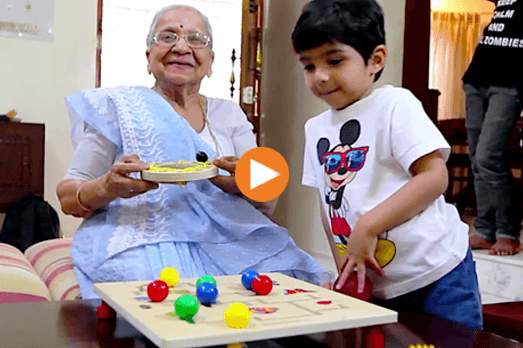
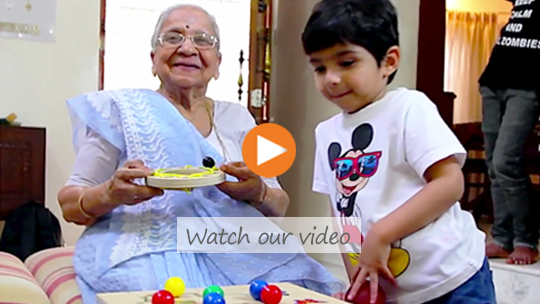
Home page new version changes

diff --git a/src/webapp/assets/css/by/homeNew.css b/src/webapp/assets/css/by/homeNew.css
@@ -1659,6 +1659,15 @@ background-image:-ms-linear-gradient(left, #fff 1%, yellow 50%,#fff 100%);
     padding-bottom: 30px;
     font-weight: bold;
 }
+.by_homeSection_wrap_title a
+{
+    text-decoration: underline;
+}
+.by_homeSection_wrap_title small
+{
+    font-size: 18px;
+    font-weight: normal;
+}
 .by_grayBg
 {
     background: #eee;
@@ -1688,8 +1697,8 @@ background-image:-ms-linear-gradient(left, #fff 1%, yellow 50%,#fff 100%);
 .by_homeSection_segoBig
 {
      font-family: Segoe_Print!important;
-     font-size: 26px;
-     line-height: 29px;
+     font-size: 20px;
+     line-height: 15px;
      padding-bottom: 16px;
 }
 .by_homeSection_segoOrange
@@ -1699,6 +1708,27 @@ background-image:-ms-linear-gradient(left, #fff 1%, yellow 50%,#fff 100%);
     line-height: 29px;
     color: #FF850F;
     font-weight: bold;
+}
+.by_homeSection_centuryArrow
+{
+    font-size: 23px;
+    font-family: century_gothic !important;
+    line-height: 22px; 
+}
+.by_homeSection_centuryArrow small
+{
+    font-size: 16px;
+}
+.by_homeSection_centuryArrow a:after
+{
+    content: '';
+    width: 0;
+    height: 0;
+    border-top: 8px solid transparent;
+    border-bottom: 8px solid transparent;
+    display: inline-block;
+    border-left: 16px solid #ccc;
+    margin-left: 5px;
 }
 .by_homeSection_link
 {
@@ -1713,6 +1743,10 @@ background-image:-ms-linear-gradient(left, #fff 1%, yellow 50%,#fff 100%);
     text-transform: uppercase;
     font-weight: bold;
 }
+.by_homeSection_link small
+{
+    font-size: 18px;
+}
 /*.by_homeSection_link a:after {
     content: '';
     width: 0;
@@ -1725,9 +1759,9 @@ background-image:-ms-linear-gradient(left, #fff 1%, yellow 50%,#fff 100%);
 }*/
 .by_homeSection_centuryBig
 {
-    font-size: 24px;
+    font-size: 22px;
     font-family: century_gothic !important;
-    line-height: 29px; 
+    line-height: 32px; 
     margin-top: 18px;
 }
 .by_sallulatesOne
@@ -1773,7 +1807,7 @@ background-image:-ms-linear-gradient(left, #fff 1%, yellow 50%,#fff 100%);
 }
 .by_homeSection_centuryBigDirectory
 {
-    font-size: 24px;
+    font-size: 23px;
     font-family: century_gothic !important;
     line-height: 37px; 
     width: 70%;
@@ -1901,6 +1935,11 @@ background-image:-ms-linear-gradient(left, #fff 1%, yellow 50%,#fff 100%);
     .by_homeHeaderBelow1, .by_homeHeaderBelow2, .by_homeHeaderBelow3
     {
         line-height: 35px;
+    }
+    .by_homeSection_centuryBig, .by_homeSection_centuryBigDirectory 
+    {
+        margin-left: auto;
+        margin-right: auto;
     }
 } 
 @media ( max-width: 430px) {

diff --git a/src/webapp/app/components/home/homeDirectory.html b/src/webapp/app/components/home/homeDirectory.html
@@ -3,7 +3,7 @@
         <div class="by_homeSection" style="padding-bottom:10px;">
             <div class="by_homeSectionInside" >
                <div class="by_homeSection_wrap_title">
-                Elder Care Services
+                Elder Care <a href="#!/directory/56406cd03e60f5b66f62df26/all">Services</a>
                 </div>
                 <!--<div class="by_homeDirectoryLeft">
                    <div class="by_homeDirectoryLeftThumb">
@@ -22,14 +22,16 @@
                 ... and more!
                 </div>-->
 
-                <div class="by_homeSection_centuryBigDirectory margin-bottom-40">
-                    We can find you a trusted <b>Nurse</b>, a <b>Physiotherapist</b>, <br/>
-                    a <b>Retirement community</b> - and more!
+                <div class="by_homeSection_centuryBigDirectory margin-bottom-40" style="max-width:678px;">
+                   We can recommend you a trusted <b>Nurse</b>, a <b>Physiotherapist</b>, 
+                    a <b>Retirement community</b> – and more!  
+
                 </div>
 
                 
-                <div class="by_homeSection_centuryBigDirectory">
-                    <a title="{{telNo}}" ng-if="$root.windowWidth < 721"> Call</a> <xyz ng-if="$root.windowWidth > 720"> <b>Call </xyz> {{telNo}}</b> for  <span>free</span> assistance, or <br/>browse our <a href="#!/directory/56406cd03e60f5b66f62df26/all" style="font-weight:500; text-transform:none;">directory</a> of senior care services
+                <div class="by_homeSection_centuryBigDirectory" style="max-width:558px;">
+                    <a title="{{telNo}}" href="tel:{{telNo}}" ng-if="$root.windowWidth < 721"> <div class="by_callToActionButton"><img src="assets/img/home/call.png?versionTimeStamp=1459503470417" alt="BeautifulYears Call"> Call 
+          </div></a> <xyz ng-if="$root.windowWidth > 720"> <b>Call </xyz> {{telNo}}</b> for  <span>free</span> assistance, or browse our <a href="#!/directory/56406cd03e60f5b66f62df26/all" style="font-weight:500; text-transform:none;">directory</a> of {{serviceCount}} senior care services
                 </div>
 
                 <div class="by_homeDirectoryRight" >

diff --git a/src/webapp/app/components/home/homeExpStore.html b/src/webapp/app/components/home/homeExpStore.html
@@ -9,24 +9,24 @@
     <div class="by_homeSection" style="padding-bottom:0px;">        
         <div class="by_homeSectionInside">
             <div class="by_homeSection_wrap_title">
-                Home Modifications for Aging at Home
+                <a href="#!/home-modification">Home Modifications</a><br/>
+                 <small>for senior living / "aging in place"</small>
             </div>
             <div class="by_homeSectionLeft divLeft">
-                <div class="by_homeSection_segoOrange margin-bottom-60">
+                <div class="by_homeSection_segoOrange margin-bottom-40">
                     First time in Bangalore!
                 </div>
-                <div class="by_homeSection_segoBig">
-                    Make your home
+                <div class="by_homeSection_centuryBig" style="max-width:390px;">
+                    Elder <b>falls prevention</b> and more: 
+                    make your home <b>Senior Friendly </b>
                 </div>
-                <div class="by_homeSection_link">
-                    <a href="#!/home-modification">Senior friendly</a>
-                </div>
-                <div class="by_homeSection_centuryBig">
-                    For safety, security and<br/> comfort of your parents
+                <div class="by_homeSection_centuryBig" style="max-width:390px;">
+                    Keep aging parents <b>safe</b>, <b>secure</b>,
+                     and <b>comfortable</b>
                 </div>
             </div>
             <div class="by_homeSectionLeft divRight">
-                <div style="border:8px solid #fff;">
+                <div style="border:2px solid #fff;">
                     <div class="by_expVideoShow" ng-click="showVideo();">
                         <img src="assets/img/home/home-seniorfriendly-videoframe.png?versionTimeStamp=%PROJECT_VERSION%" alt="BeautifulYears Video" width="100%"  />
                     </div>

diff --git a/src/webapp/app/components/home/homeShop.html b/src/webapp/app/components/home/homeShop.html
@@ -51,25 +51,27 @@
             </div>
             <div class="by_homeSectionLeft divRight">
                 <div class="by_homeSection_segoBig">
-                    Visit us in Bangalore
+                    Visit us 
                 </div>
                 <div class="by_homeSection_link">
-                    <a href="#!/experience-center">Experience store</a>
+                    <a href="#!/experience-center">Experience store</a> <small> in Bangalore</small>
+                </div>
+                <div class="by_homeSection_centuryArrow margin-top-20 ">
+                    <b>SEE</b> <a></a> <b>TRY</b> <a></a> <b>BUY</b> <small>or</small> <b>RENT</b>
                 </div>
                 <div class="by_homeSection_centurySmall margin-top-10 margin-bottom-40">
-                    See, try and buy - innovative <br/>
-                    products that improve lives of <br/>
+                    Innovative products that <br/>improve lives of 
                     the elderly
                 </div>
                 <div class="by_homeSection_segoBig">
-                    Not in Bangalore?
+                    Don't live in Bangalore?
                 </div>
                 <div class="by_homeSection_link">
                     <a href="#!/shop/55bcad7be4b08970a736784b">Shop on-line</a>
                 </div>
             </div>
             <div class="by_homeSectionLeft divLeft">
-                <div style="border:8px solid #eee;">
+                <div style="border:2px solid #eee;">
                     <div class="by_expVideoShow1" ng-click="showVideo1();">
                         <img src="assets/img/home/home-eldercare-frame.png?versionTimeStamp=%PROJECT_VERSION%" alt="BeautifulYears Video" width="100%"  />
                     </div>

diff --git a/src/webapp/index.html b/src/webapp/index.html
@@ -221,7 +221,7 @@
                                 <img src="assets/img/footer/home-modi.png?versionTimeStamp=%PROJECT_VERSION%" alt="Home modifications" width="21"/> <span>Home modifications</span> for Senior living
                             </a>
                             <a href="#!/experience-center">
-                                <img src="assets/img/footer/expi-store.png?versionTimeStamp=%PROJECT_VERSION%" alt="Expereince Store" width="21"/> <span>Expereince Store</span> - elder care solutions  
+                                <img src="assets/img/footer/expi-store.png?versionTimeStamp=%PROJECT_VERSION%" alt="Expereince Store" width="21"/> <span>Experience Store</span> - elder care solutions  
                             </a>
                             <a href="#!/classes-actitivies-for-senior-citizens">
                                 <img src="assets/img/footer/classes.png?versionTimeStamp=%PROJECT_VERSION%" alt="Senior citizens" width="21"/> <span>Classes &amp; activities</span> for Senior citizens 
@@ -259,7 +259,7 @@
                         <a>|</a> 
                         <a href="#!/termsCondition">Terms of Service</a>
                         <a>|</a>
-                        <a href="#!/contactUs" style="color:#fff;">Contact Us</a>
+                        <a href="#!/contactUs" style="color:#fff; font-weight:bold; text-transform:uppercase; font-size:16px;">Contact Us</a>
                         <xyz class="mobileSiteAbout">
                         <a>|</a>
                         <a href="#!/aboutUs">About Us</a>

diff --git a/src/webapp/app/components/home/homeCommunities.html b/src/webapp/app/components/home/homeCommunities.html
@@ -74,14 +74,15 @@
  <div class="by_container">
     <div class="by_homeSection" style="padding-bottom:0px;">        
         <div class="by_homeSectionInside">
-            <div class="by_homeSection_wrap_title" style="padding-bottom:10px;">
+            <div class="by_homeSection_wrap_title">
                 <div class="by_homeSection_link">
                     <a href="#!/communities/564071623e60f5b66f62df27/all">Communites</a>
                 </div>
             </div>                
             <div class="by_homeSectionLeft divLeft">
                 <div class="by_homeSection_centurySmall" >
-                    Caregivers and Senior Citizens
+                    Connect with experts, caregivers, and Senior citizens in our <a href="#!/communities/564071623e60f5b66f62df27/all"><u><b>forums</b></u></a>. Get: 
+
                 </div>
                 <div class="by_homeSection_list by_grayBg margin-bottom-20">
                     <ul>
@@ -93,8 +94,8 @@
                     <div class="clearfix"></div>
 
                 </div>
-                <div class="by_homeSection_segoBig" style="font-size:21px; ">
-                    Sharing personal stories<br/> of caregiving and aging
+                <div class="by_homeSection_segoBig" style="font-size:20px; line-height:25px; ">
+                    Read and share stories of caregiving and aging
                 </div>
             </div>
             <div class="by_homeSectionLeft by_homeSectionLeftComm divRight">

diff --git a/src/webapp/assets/css/by/by_footer.css b/src/webapp/assets/css/by/by_footer.css
@@ -32,8 +32,8 @@
 .by_footerLinks
 {
     float: left;
-    width: 334px;
-    margin-left: 10%;
+    width: 352px;
+    margin-left: 8%;
     height: auto;
     padding-top: 10px;
 }
@@ -186,7 +186,7 @@
 }
 .by_footerLinksLeft_text a
 {
-    padding-bottom: 4px;
+    padding-bottom: 8px;
     color: #CCC9C9;
     display: block;
     text-align: justify;
@@ -202,8 +202,10 @@
 .by_footerLinksLeft_text a span, .by_footerLinksLeft_text a span:hover
 {
     color: #fff;
+    text-transform: uppercase;
+    font-weight: bold;
 }
-.by_footerLinksLeft_text a:after
+/*.by_footerLinksLeft_text a:after
 {
     content: '';
     width: 0;
@@ -214,7 +216,7 @@
     border-left: 10px solid #FF850F;
     float: right;
     margin-top: 9px;
-}
+}*/
 .by_contact_footerLeft
 {
     float: left;
@@ -259,7 +261,7 @@
     }
     .by_footerLinks
     {
-        margin-left: 5%;
+        margin-left: 3%;
     }
 }
 @media (max-width: 720px){
@@ -319,5 +321,9 @@
     {
         text-align: right;
         margin-top: 0px;
+    }
+    .by_footerLinksLeft img
+    {
+        display: none;
     }
 }

diff --git a/src/webapp/app/components/home/homeClassActivities.html b/src/webapp/app/components/home/homeClassActivities.html
@@ -10,7 +10,7 @@
                 <div class="by_homeSection_centuryBig margin-top-10">
                     for Senior Citizens in Bangalore
                 </div>
-                <div class="by_homeSection_segoBig margin-top-10" style="font-size:22px; ">
+                <div class="by_homeSection_segoBig margin-top-10" style="font-size:20px; line-height:27px; ">
                     Technology, Legal, Finance,<br/>
                     Creative, and more...
                 </div>

diff --git a/src/webapp/app/components/home/homeController.js b/src/webapp/app/components/home/homeController.js
@@ -65,6 +65,8 @@ define(['byApp', 'byUtil', 'homePromoController',
                 });
             };
 
+            $scope.serviceCount = $rootScope.totalServiceCount;
+
             $scope.$on('directoryCountAvailable', function (event, args) {
                 animateCounter($rootScope.totalServiceCount, $(".HomeSevicesCnt"));
                 animateCounter($rootScope.totalHousingCount, $(".HomeHousingCnt"));
